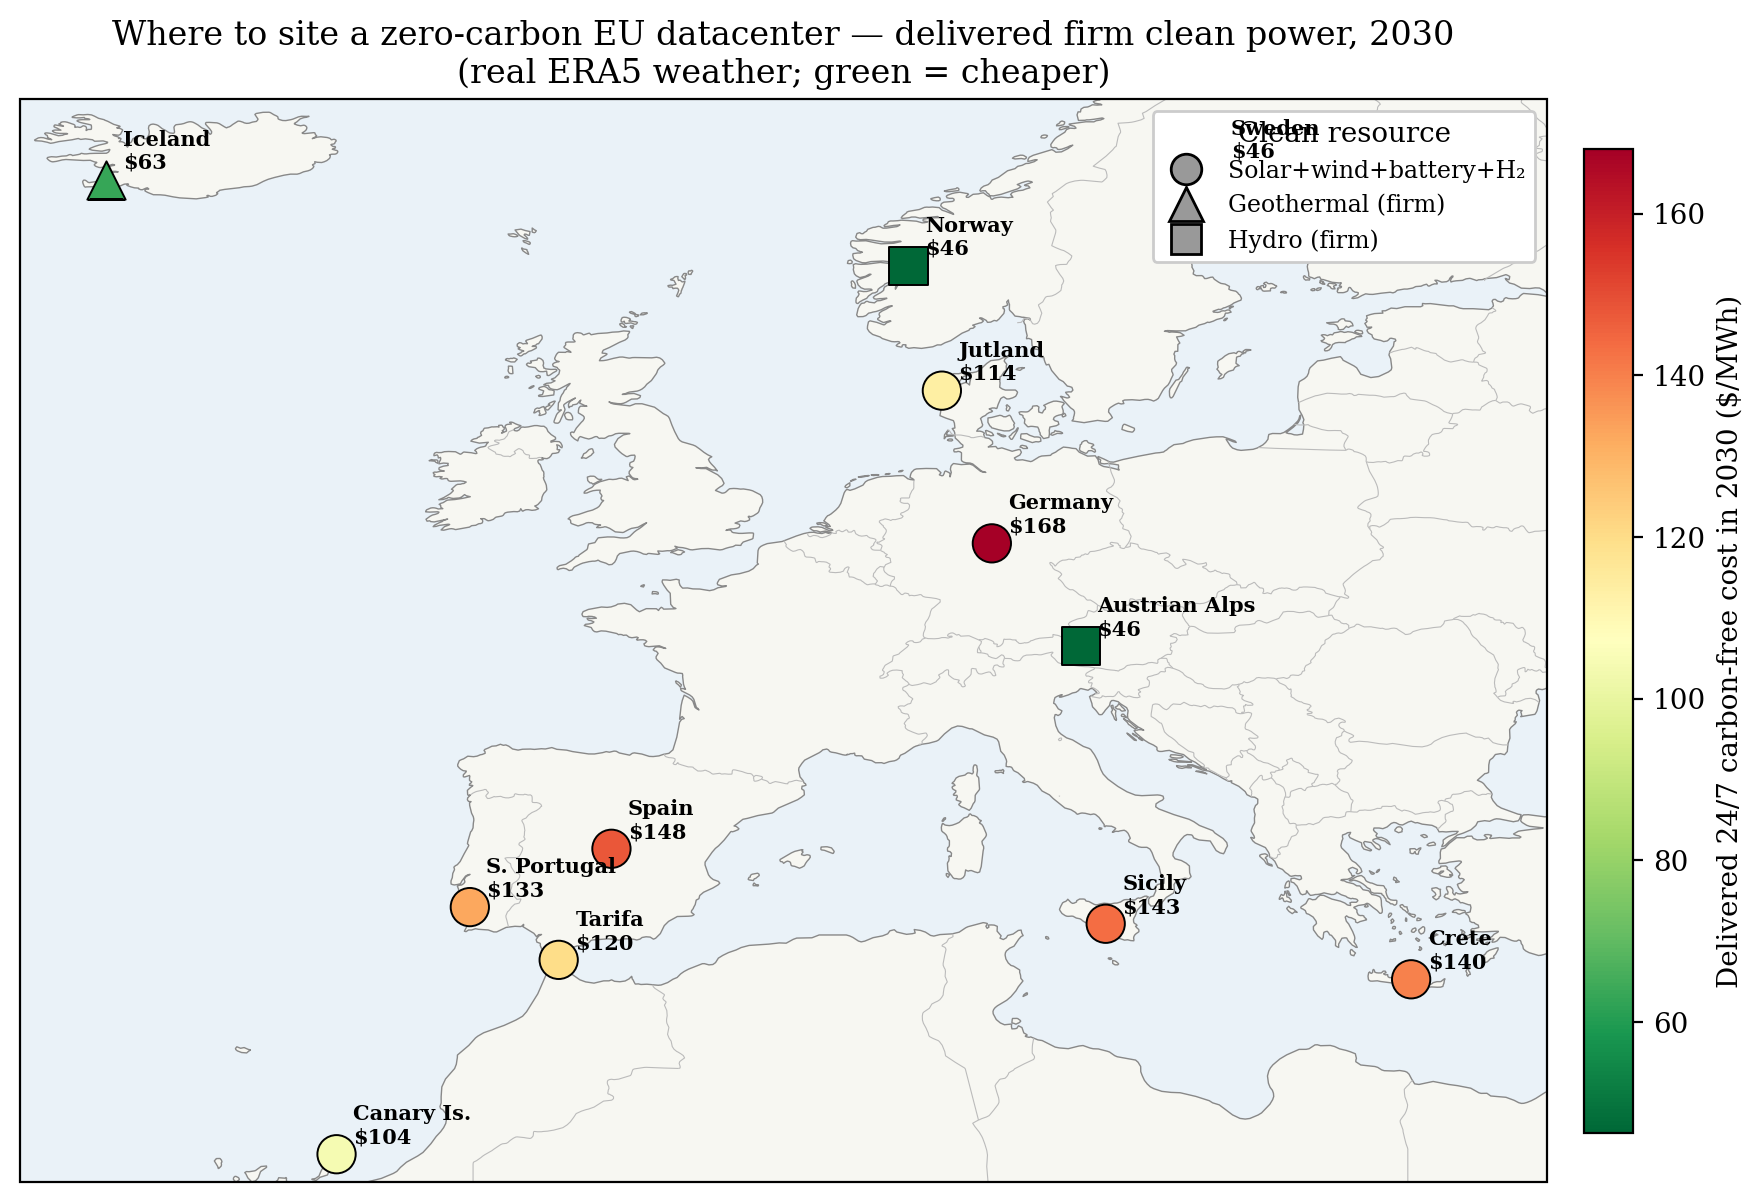
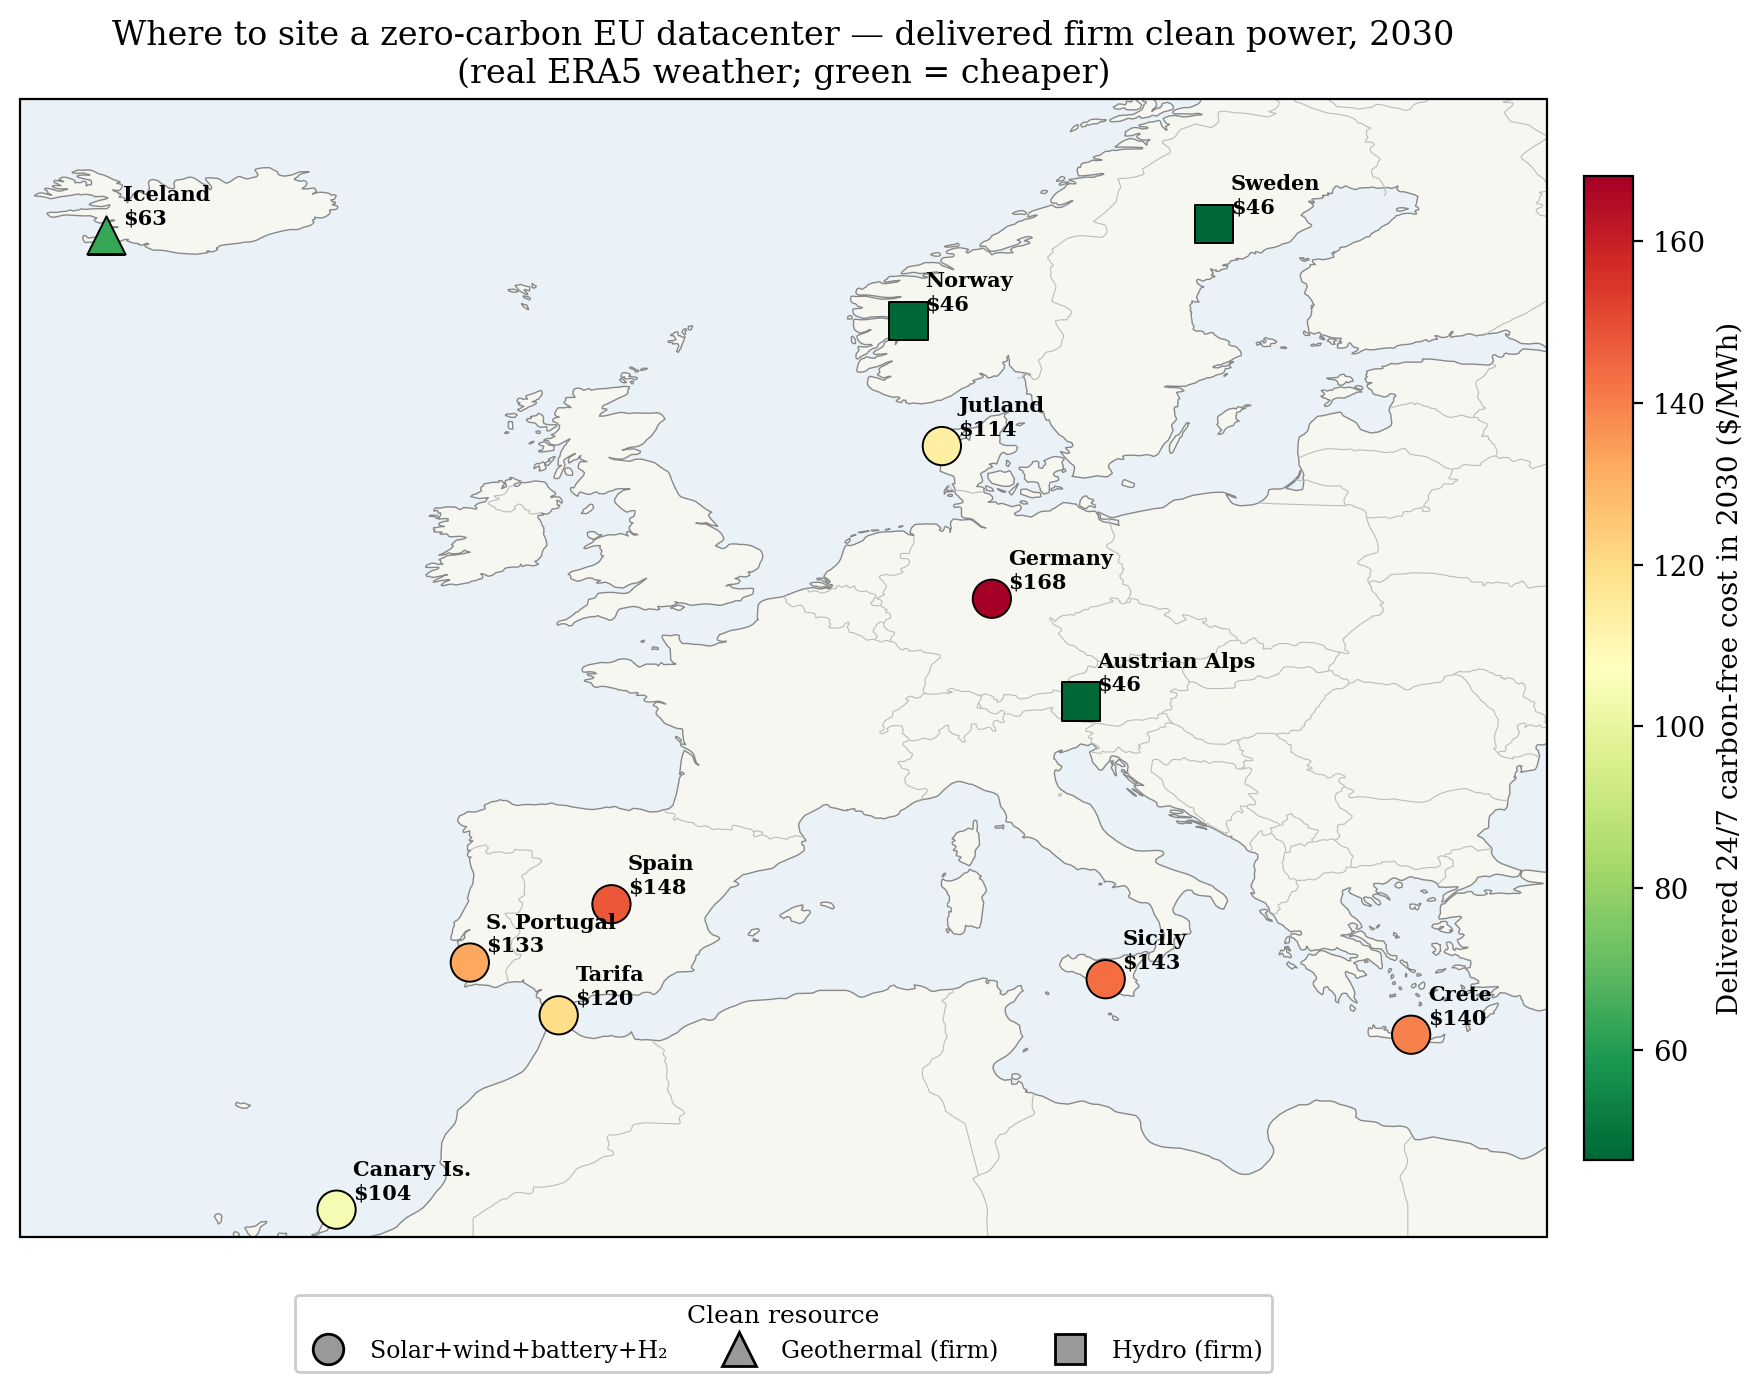
Fix EU-siting map: Sweden marker was hidden behind the legend
The resource legend sat in the upper-right, exactly over the Nordic markers, so
Sweden (~64.5°N, 18°E) was occluded. Move the legend below the map and add northern
headroom (extent top 67→69°N). All 12 sites now visible; re-rendered map + report.

diff --git a/tools/build_eu_siting.py b/tools/build_eu_siting.py
@@ -187,7 +187,7 @@ def build_map(results, mi):
     cmap = plt.get_cmap("RdYlGn_r")
     norm = plt.Normalize(vmin, vmax)
     marker = {"re": "o", "geothermal": "^", "hydro": "s"}
-    extent = [-25, 30, 28, 67]   # Iceland → E. Mediterranean
+    extent = [-25, 30, 28, 69]   # Iceland → E. Mediterranean (north headroom for Nordic sites)
 
     try:
         import cartopy.crs as ccrs
@@ -233,8 +233,11 @@ def build_map(results, mi):
                       markeredgecolor="k", markersize=12, label="Geothermal (firm)"),
                Line2D([0], [0], marker="s", color="w", markerfacecolor="#999",
                       markeredgecolor="k", markersize=11, label="Hydro (firm)")]
-    ax.legend(handles=handles, loc="upper right", fontsize=8.5, frameon=True,
-              facecolor="white", framealpha=1, title="Clean resource")
+    # Legend BELOW the map (a box in the upper-right would occlude the Nordic markers,
+    # e.g. Sweden at ~64.5°N/18°E).
+    ax.legend(handles=handles, loc="upper center", bbox_to_anchor=(0.5, -0.04), ncol=3,
+              fontsize=8.5, frameon=True, facecolor="white", framealpha=1,
+              title="Clean resource", title_fontsize=9)
     real = any(r.get("weather", "").startswith("ERA5") for r in results)
     ax.set_title(f"Where to site a zero-carbon EU datacenter — delivered firm clean power, {mi}\n"
                  f"({'real ERA5 weather' if real else 'illustrative resource'}; "